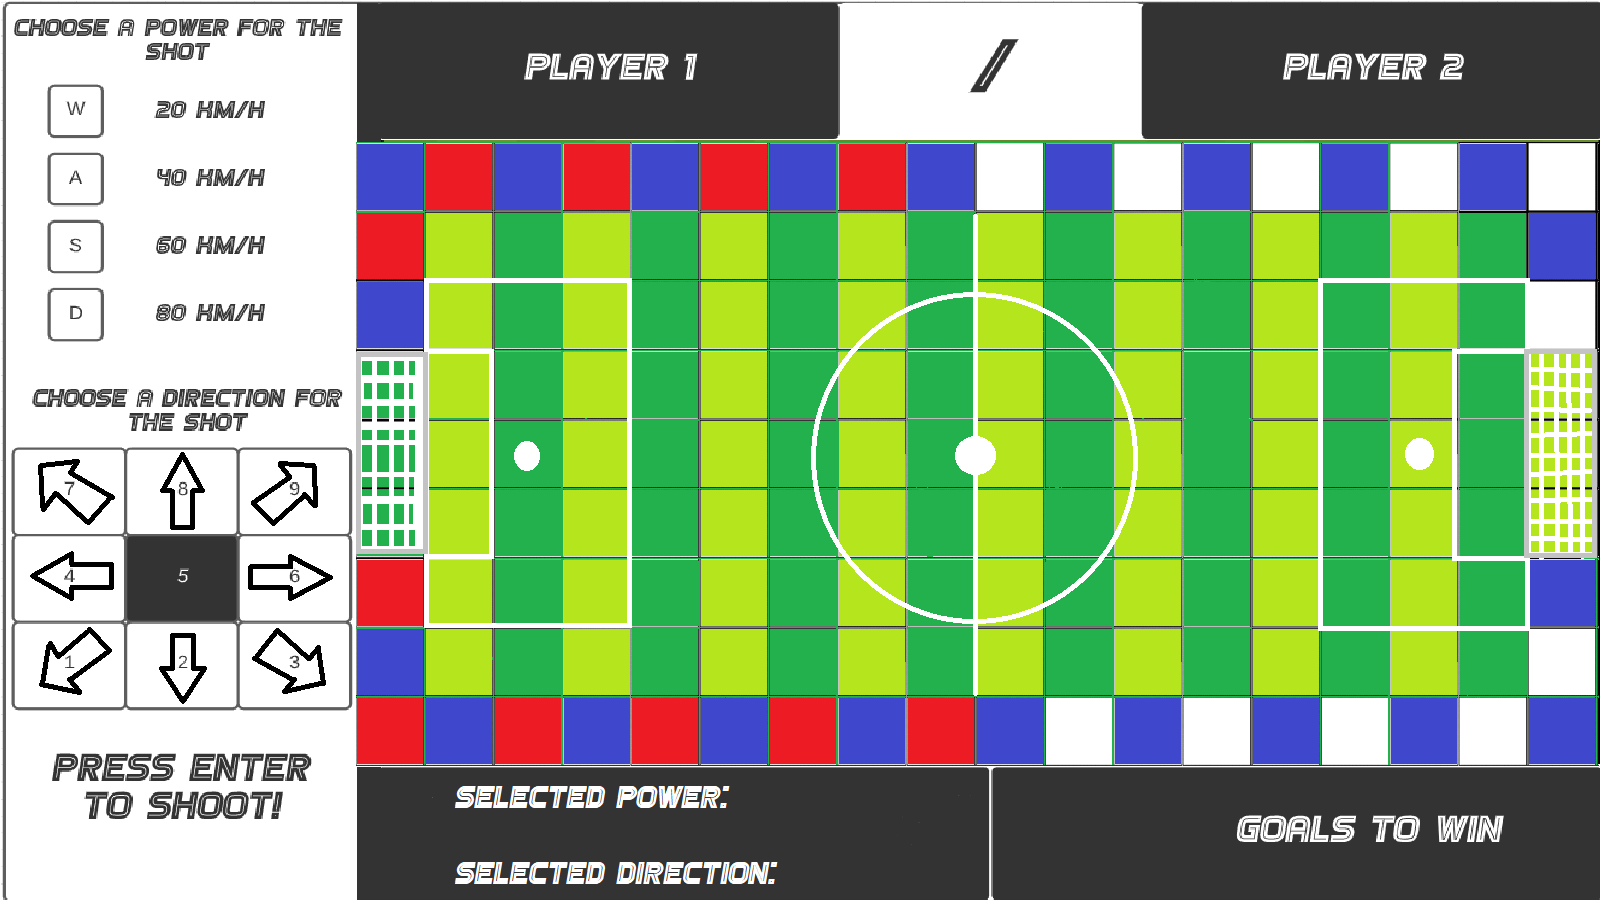
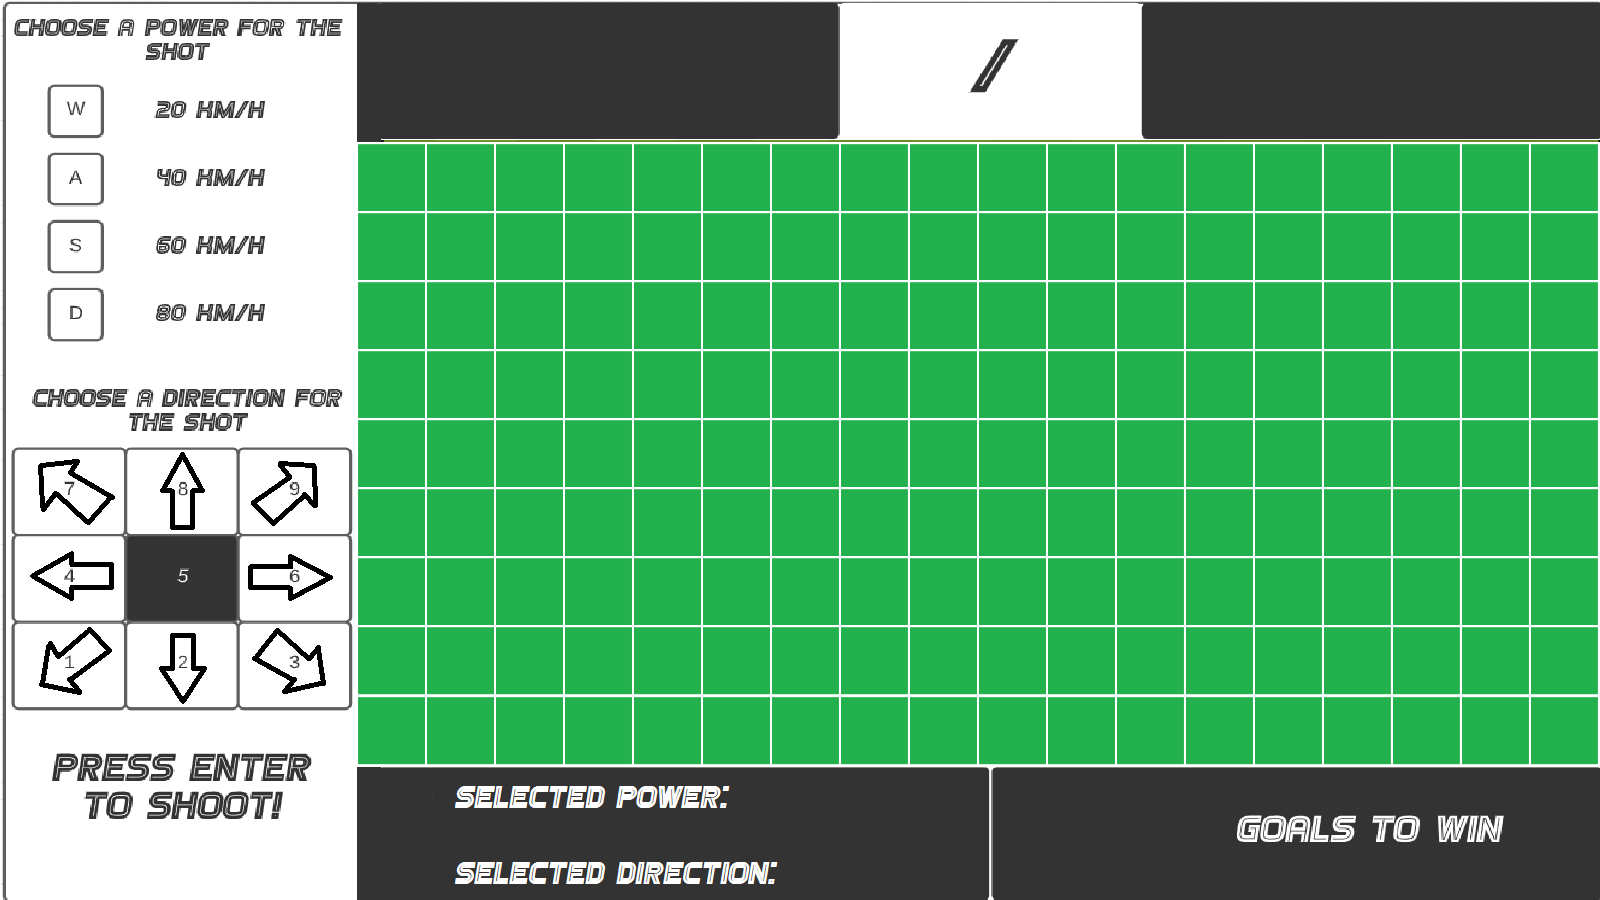
Made verifications
Made functions for goal scoring and match winner

diff --git a/Views/BPGame.h b/Views/BPGame.h
@@ -1,6 +1,9 @@
 #ifndef PROYECTO_II_CLIENT_CE2103__BPGAME_H
 #define PROYECTO_II_CLIENT_CE2103__BPGAME_H
 
+#include <stdio.h>
+#include <stdlib.h>
+
 #include <SFML/Graphics.hpp>
 #include "../backend/soccar/Game.h"
 #include "../backend/util/Response.h"
@@ -64,10 +67,26 @@ public:
         sf::RenderWindow window(sf::VideoMode(width, height), "BP Game");
 
         //Background resource loading
+        srand(time(0));
+        int teams = rand() % 5 + 1;
         sf::Texture bpGamebackground;
-        if (!bpGamebackground.loadFromFile(
-                "../Resources/BPGameBackground.png"))
-            return EXIT_FAILURE;
+        switch (teams) {
+            case 1:
+                bpGamebackground.loadFromFile("../Resources/BPGameBackgroundLDAvSAP.png");
+                break;
+            case 2:
+                bpGamebackground.loadFromFile("../Resources/BPGameBackgroundFCBvRMA.png");
+                break;
+            case 3:
+                bpGamebackground.loadFromFile("../Resources/BPGameBackgroundFCBvBVB.png");
+                break;
+            case 4:
+                bpGamebackground.loadFromFile("../Resources/BPGameBackgroundRIVvBOC.png");
+                break;
+            case 5:
+                bpGamebackground.loadFromFile("../Resources/BPGameBackgroundACMvINT.png");
+                break;
+        }
         sf::Sprite bpGamebackgroundSprite(bpGamebackground);
 
         //Font resource loading
@@ -85,8 +104,24 @@ public:
 
         //Player resource loading
         sf::Texture player;
-        if (!player.loadFromFile(("../Resources/Car4.png")))
+        if (!player.loadFromFile(("../Resources/Car3.png")))
             return EXIT_FAILURE;
+
+        //Text of the player1Name
+        sf::Text player1Name;
+        player1Name.setFont(font);
+        player1Name.setString("Player 1");
+        player1Name.setCharacterSize(80);
+        player1Name.setFillColor(sf::Color::Red);
+        player1Name.setPosition(425, 16);
+
+        //Text of the player2Name
+        sf::Text player2Name;
+        player2Name.setFont(font);
+        player2Name.setString("Player 2");
+        player2Name.setCharacterSize(80);
+        player2Name.setFillColor(sf::Color::White);
+        player2Name.setPosition(1200, 16);
 
         //Text of the player1Score
         sf::Text player1Score;
@@ -228,6 +263,8 @@ public:
                             goalsTowin.setString(to_string(this->goals));
                             selectedPower.setString(to_string(this->power));
                             selectedDirection.setString(this->direction);
+                            window.draw(player1Name);
+                            window.draw(player2Name);
                             window.draw(player1Score);
                             window.draw(player2Score);
                             window.draw(goalsTowin);
@@ -242,21 +279,10 @@ public:
                                     sf::RectangleShape obstacles(sf::Vector2f(70, 70));
                                     obstacles.setPosition(x, y);
                                     obstacles.setFillColor(sf::Color::Transparent);
-                                    obstacles.setOutlineColor(sf::Color::Black);
-                                    obstacles.setOutlineThickness(1);
-                                    if (dynamic_cast<GoalLineBox *>(box) != nullptr) {
-                                        obstacles.setFillColor(sf::Color::Red);
-                                    }
                                     if (dynamic_cast<ObstacleBox *>(box) != nullptr) {
                                         sf::Sprite playerSprite(player);
                                         playerSprite.setPosition(x, y);
                                         window.draw(playerSprite);
-                                    }
-                                    if (dynamic_cast<BoundBox *>(box) != nullptr) {
-                                        obstacles.setFillColor(sf::Color::White);
-                                    }
-                                    if (dynamic_cast<NormalBox *>(box) != nullptr) {
-                                        obstacles.setFillColor(sf::Color::Green);
                                     }
                                     window.draw(obstacles);
                                 }
@@ -268,18 +294,76 @@ public:
                             window.display();
                             sf::sleep(sf::milliseconds(500));
                         }
-                        //evaluar el caso de que si fue gol
 
+                        //Goal check
                         if (dynamic_cast<GoalLineBox *>(ballBox) != nullptr) {
-                            this->actuaPlayer->addGoal();
-                            cout << "siiiiiiiiiiiuuuuuuuuuu " << actuaPlayer->getName() << " scored !" << endl;
+                            //Drawing of the goal screen
+                            window.clear();
+                            sf::RectangleShape goalBackground(sf::Vector2f(1600, 900));
+                            sf::Text goalText;
+                            goalText.setFont(font);
+                            
+                            if(game->getBall()->getColumn() != 1){
+                                auto pPlayer = game->getPlayer1();
+                                pPlayer->addGoal();
+                                goalBackground.setFillColor(sf::Color::Red);
+                                goalText.setString("Player 1 scored!");
+                            }else{
+                                auto player2 = game->getPlayer2();
+                                player2->addGoal();
+                                goalBackground.setFillColor(sf::Color::Blue);
+                                goalText.setString("Player 2 scored!");
+                            }
+                            
+                            goalText.setCharacterSize(150);
+                            goalText.setFillColor(sf::Color::White);
+                            goalText.setPosition(150, 350);
+                            window.draw(goalBackground);
+                            window.draw(goalText);
+                            window.display();
+                            sf::sleep(sf::milliseconds(2000));
 
+                            //Update of the scores
                             this->Player1Score = game->getPlayer1()->getScore();
                             this->Player2Score = game->getPlayer2()->getScore();
 
+                            //Update ball position
+                            game->getBall()->setRow(5);
+                            game->getBall()->setColumn(9);
                         }
+
+                        //Winner check
+                        if(game->scoreCheck()) {
+                            window.clear();
+                            sf::RectangleShape winnerBackground(sf::Vector2f(1600, 900));
+                            sf::Text winnerText;
+                            winnerText.setFont(font);
+                            if(game->getPlayer1()->getScore() == game->getMaxgoals()){
+                                winnerText.setString("Player 1 wins!");
+                                winnerBackground.setFillColor(sf::Color::Red);
+                            }else{
+                                winnerText.setString("Player 2 wins!");
+                                winnerBackground.setFillColor(sf::Color::Blue);
+                            }
+                            winnerText.setCharacterSize(150);
+                            winnerText.setFillColor(sf::Color::White);
+                            winnerText.setPosition(200, 350);
+                            window.draw(winnerBackground);
+                            window.draw(winnerText);
+                            window.display();
+                            sf::sleep(sf::milliseconds(2000));
+                            window.close();
+                        }
+
+                        //Next player
                         this->actuaPlayer = game->getNextPlayer(this->actuaPlayer);
-                        cout << "actual player : " << this->actuaPlayer->getName() << endl;
+                        if (actuaPlayer->getName() == "Player 1") {
+                            player1Name.setFillColor(sf::Color::Red);
+                            player2Name.setFillColor(sf::Color::White);
+                        } else {
+                            player2Name.setFillColor(sf::Color::Blue);
+                            player1Name.setFillColor(sf::Color::White);
+                        }
                     }
                 }
                 //Binding to close program
@@ -294,6 +378,8 @@ public:
             goalsTowin.setString(to_string(this->goals));
             selectedPower.setString(to_string(this->power));
             selectedDirection.setString(this->direction);
+            window.draw(player1Name);
+            window.draw(player2Name);
             window.draw(player1Score);
             window.draw(player2Score);
             window.draw(goalsTowin);
@@ -309,21 +395,10 @@ public:
                     sf::RectangleShape obstacles(sf::Vector2f(70, 70));
                     obstacles.setPosition(x, y);
                     obstacles.setFillColor(sf::Color::Transparent);
-                    obstacles.setOutlineColor(sf::Color::Black);
-                    obstacles.setOutlineThickness(1);
-                    if (dynamic_cast<GoalLineBox *>(box) != nullptr) {
-                        obstacles.setFillColor(sf::Color::Red);
-                    }
                     if (dynamic_cast<ObstacleBox *>(box) != nullptr) {
                         sf::Sprite playerSprite(player);
                         playerSprite.setPosition(x, y);
                         window.draw(playerSprite);
-                    }
-                    if (dynamic_cast<BoundBox *>(box) != nullptr) {
-                        obstacles.setFillColor(sf::Color::White);
-                    }
-                    if (dynamic_cast<NormalBox *>(box) != nullptr) {
-                        obstacles.setFillColor(sf::Color::Green);
                     }
                     window.draw(obstacles);
                 }

diff --git a/backend/soccar/Game.h b/backend/soccar/Game.h
@@ -27,6 +27,9 @@ private:
     int field_lenght = 18;
 
 public:
+    bool scoreCheck(){
+        return this->player_1->getScore() == this->max_goals or this->player_2->getScore() == this->max_goals;
+    }
     explicit Game(GameSettings *settings) {
         this->field = new Field(this->field_height, this->field_lenght);
         this->ball = new Ball(5, 9);
@@ -35,6 +38,10 @@ public:
         this->max_goals = settings->getMaxGoals();
         this->obstacles = settings->getObstacles();
     };
+
+    int getMaxgoals(){
+        return this->max_goals;
+    }
 
     static Game *getInstance(GameSettings *settings = nullptr);
 
